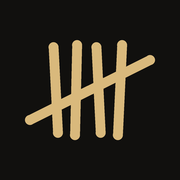
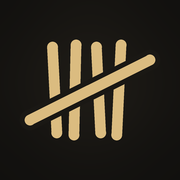
v1.17: días por hábito, días de descanso e ícono pulido
Claude-Session: https://claude.ai/code/session_011AUJg2xjcRvmcvuETV9aom

diff --git a/index.html b/index.html
@@ -174,6 +174,16 @@ input[type=checkbox]{width:22px;height:22px;flex:none;padding:0;accent-color:var
 @keyframes spIn{from{opacity:0;transform:translateY(6px)}to{opacity:1;transform:none}}
 @keyframes spOut{to{opacity:0;visibility:hidden}}
 @media (prefers-reduced-motion:reduce){#splash{display:none}}
+.card.off{opacity:.45}
+.d.off i::after{width:10px;height:2px;border-radius:1px;background:var(--line)}
+.grid .off{background:transparent;box-shadow:inset 0 0 0 1px var(--line)}
+.restrow{justify-content:flex-end}
+.daypick{display:grid;grid-template-columns:repeat(7,1fr);gap:6px}
+.daypick label{display:block;cursor:pointer}
+.daypick input{position:absolute;opacity:0;width:1px;height:1px}
+.daypick span{display:grid;place-items:center;height:40px;border-radius:12px;background:var(--raise);color:var(--muted);border:1.5px solid transparent;font-weight:600}
+.daypick input:checked + span{border-color:var(--accent);color:var(--accent)}
+.daypick input:focus-visible + span{outline:2px solid var(--accent);outline-offset:2px}
 [hidden]{display:none!important}
 @media (max-width:380px){h1{font-size:36px}.state{font-size:17px}.ico{width:46px;height:46px}.orb{width:52px;height:52px}}
 @media (prefers-reduced-motion:reduce){.bar u{transition:none}}
@@ -223,6 +233,10 @@ input[type=checkbox]{width:22px;height:22px;flex:none;padding:0;accent-color:var
         <option value="week">Veces por semana</option>
       </select>
     </label>
+    <fieldset id="hf-daysbox">
+      <legend>Días en que lo haces (los demás son de descanso)</legend>
+      <div class="daypick" id="hf-days"></div>
+    </fieldset>
     <div class="two" id="hf-countfields">
       <label for="hf-goal"><span id="hf-goallabel">Meta diaria</span>
         <input id="hf-goal" type="number" inputmode="decimal" min="0" step="any">
@@ -335,7 +349,7 @@ input[type=checkbox]{width:22px;height:22px;flex:none;padding:0;accent-color:var
 <script>
 (function(){
 "use strict";
-var VERSION = "1.16";
+var VERSION = "1.17";
 var $ = function(id){ return document.getElementById(id); };
 (function(){
   var sp=$("splash"), seen=false;
@@ -403,6 +417,9 @@ function ratio(h,k){ var v=val(h,k); if(h.type!=="count") return v>=1?1:0; retur
 function met(h,k){ return ratio(h,k)>=1; }
 function weekCount(h,k){ var m=monday(k), n=0; for(var i=0;i<7;i++) if(val(h,addDays(m,i))>=1) n++; return n; }
 function weekMet(h,mon){ return weekCount(h,mon) >= (h.goal||1); }
+function wdOf(k){ return (parse(k).getDay()+6)%7; }
+function isRest(k){ var r=(S.profile||{}).rest; return !!(r && r[k]); }
+function active(h,k){ if(isRest(k)) return false; if(isWeek(h) || !Array.isArray(h.days) || !h.days.length) return true; return h.days.indexOf(wdOf(k))>=0; }
 function metCount(k){ var n=0; S.habits.forEach(function(h){ if(met(h,k)) n++; }); return n; }
 function streak(h){
   var n=0, g=0;
@@ -412,9 +429,13 @@ function streak(h){
     while(weekMet(h,m) && g++<1000){ n++; m=addDays(m,-7); }
     return n;
   }
-  var k=today();
-  if(!met(h,k)) k=addDays(k,-1);
-  while(met(h,k) && g++<4000){ n++; k=addDays(k,-1); }
+  var k=today(), first=firstKey();
+  if(active(h,k) && !met(h,k)) k=addDays(k,-1);
+  while(g++<4000 && k>=first){
+    if(met(h,k)) n++;
+    else if(active(h,k)) break;
+    k=addDays(k,-1);
+  }
   return n;
 }
 function firstKey(){ var ks=Object.keys(S.days).sort(); return ks[0]||today(); }
@@ -426,7 +447,11 @@ function bestStreak(h){
     return best;
   }
   var k=firstKey();
-  while(k<=end && g++<4000){ if(met(h,k)){ run++; if(run>best) best=run; } else run=0; k=addDays(k,1); }
+  while(k<=end && g++<4000){
+    if(met(h,k)){ run++; if(run>best) best=run; }
+    else if(active(h,k) && k<end) run=0;
+    k=addDays(k,1);
+  }
   return best;
 }
 function consistency(h){
@@ -438,30 +463,34 @@ function consistency(h){
   var end=today(), start=addDays(end,-29);
   if(h.since && h.since>start) start=h.since;
   var k=start, total=0, good=0;
-  while(k<=end && total<31){ total++; if(met(h,k)) good++; k=addDays(k,1); }
+  var g=0;
+  while(k<=end && g++<31){ if(active(h,k)){ total++; if(met(h,k)) good++; } k=addDays(k,1); }
   return {v:(total?Math.round(good/total*100):0)+"%", l:"últimos 30 días"};
 }
 function dayScore(k){
   var n=0, m=0, sum=0;
   S.habits.forEach(function(h){
     if(isWeek(h) && !met(h,k)) return;
+    if(!active(h,k) && !met(h,k)) return;
     n++; var r=ratio(h,k); sum+=r; if(r>=1) m++;
   });
   return {n:n, m:m, pct:n?Math.round(sum/n*100):0};
 }
 function dayStreak(){
-  var k=today(), n=0;
-  if(!metCount(k)) k=addDays(k,-1);
-  while(metCount(k)>0 && n<4000){ n++; k=addDays(k,-1); }
+  var k=today(), n=0, g=0, first=firstKey();
+  if(!metCount(k) && !isRest(k)) k=addDays(k,-1);
+  while(g++<4000 && k>=first){
+    if(metCount(k)>0) n++;
+    else if(!isRest(k)) break;
+    k=addDays(k,-1);
+  }
   return n;
 }
 function bestDayStreak(){
   var k=firstKey(), end=today(), best=0, run=0, g=0;
-  while(k<=end && g++<4000){ if(metCount(k)>0){ run++; if(run>best) best=run; } else run=0; k=addDays(k,1); }
+  while(k<=end && g++<4000){ if(metCount(k)>0){ run++; if(run>best) best=run; } else if(!isRest(k) && k<end) run=0; k=addDays(k,1); }
   return best;
 }
-
-/* ---------- saving ---------- */
 function loadLocal(){
   try{
     var o = JSON.parse(localStorage.getItem(LKEY)||"null");
@@ -601,12 +630,15 @@ function notes(){
   if(S.saveErr) out+='<p class="note">'+esc(S.saveErr)+'</p>';
   return out;
 }
+var WDN=["L","M","X","J","V","S","D"];
+function daysLabel(h){ var d=h.days; if(!Array.isArray(d) || !d.length || d.length===7) return "todos los días"; if(d.length===5 && d.join()==="0,1,2,3,4") return "entre semana"; return d.slice().sort().map(function(i){ return WDN[i]; }).join(" "); }
 function isSteps(h){ return h.type==="count" && (/paso/.test(plain(h.unit)) || /paso/.test(plain(h.name))); }
 function viewHoy(){
   var k=S.sel, t=today(), d=parse(k), sc=dayScore(k);
   var wk = k===t ? "hoy · "+d.toLocaleDateString("es-MX",{weekday:"long"}) : d.toLocaleDateString("es-MX",{weekday:"long"});
   var ds=dayStreak();
-  var state = !sc.n ? "" : sc.m===sc.n ? "día completo" : sc.m+" de "+sc.n;
+  var rest=isRest(k);
+  var state = rest ? "descanso" : !sc.n ? "" : sc.m===sc.n ? "día completo" : sc.m+" de "+sc.n;
   var h = notes();
   h += '<header class="head"><div class="row"><div class="daynav"><button class="nav" data-a="prev" aria-label="Día anterior">‹</button>'
     + '<span class="wkday">'+esc(wk)+'</span>'
@@ -615,6 +647,7 @@ function viewHoy(){
     + '<div class="row end"><h1>'+esc(d.toLocaleDateString("es-MX",{day:"numeric",month:"long"}))+'</h1><em class="state">'+state+'</em></div>'
     + '<div class="rule"></div>'
     + '<div class="prog"><div class="bar"><u style="width:'+sc.pct+'%"></u></div><span class="num">'+sc.pct+'%</span></div>'
+    + (S.habits.length ? '<div class="tools restrow"><button class="chip'+(rest?' on':'')+'" data-a="rest" aria-pressed="'+rest+'">'+(rest?'día de descanso · quitar':'marcar día de descanso')+'</button></div>' : '')
     + ((S.profile||{}).quotes!==false ? '<p class="quote"><em>'+esc(quoteFor(k))+'</em></p>' : '')+'</header>';
   if(!S.cfgLoaded){ return h+'<p class="empty">Cargando tus hábitos…</p>'; }
   if(!S.habits.length){
@@ -622,13 +655,15 @@ function viewHoy(){
   }
   var mon=monday(k);
   h += '<ul class="list">';
-  S.habits.forEach(function(x){
-    var v=val(x,k), ok=met(x,k), st=streak(x), u = x.unit ? ' '+esc(x.unit) : '';
+  var order=S.habits.filter(function(x){ return active(x,k) || met(x,k); }).concat(S.habits.filter(function(x){ return !active(x,k) && !met(x,k); }));
+  order.forEach(function(x){
+    var v=val(x,k), ok=met(x,k), st=streak(x), u = x.unit ? ' '+esc(x.unit) : '', act=active(x,k);
     var sub, cardMet=ok;
     if(x.type==="count") sub = fmt(v)+' / '+fmt(x.goal)+u;
     else if(isWeek(x)){ var wc=weekCount(x,k); cardMet=wc>=x.goal; sub = wc+' de '+x.goal+' esta semana'+(cardMet?' · cumplida':''); }
     else sub = ok?'hecho':'pendiente';
-    h += '<li class="card'+(cardMet?' met':'')+'"><div class="hrow"><span class="ico">'+svg(iconOf(x))+'</span><div class="hname"><h3>'+esc(x.name)+'</h3><em class="sub">'+sub+'</em></div>';
+    if(!act && !ok) sub = rest ? 'día de descanso' : 'hoy descansa · '+daysLabel(x);
+    h += '<li class="card'+(cardMet?' met':'')+(!act && !ok?' off':'')+'"><div class="hrow"><span class="ico">'+svg(iconOf(x))+'</span><div class="hname"><h3>'+esc(x.name)+'</h3><em class="sub">'+sub+'</em></div>';
     if(x.type==="count"){
       h += '<button class="orb'+(ok?' on':'')+'" data-a="inc" data-id="'+x.id+'" aria-label="Sumar '+fmt(x.step)+u+' a '+esc(x.name)+'">'+(ok?'✓':'+')+'</button></div>';
     }else{
@@ -637,7 +672,7 @@ function viewHoy(){
     h += '<div class="wk">';
     for(var i=0;i<7;i++){
       var dk=addDays(mon,i), r=ratio(x,dk);
-      h += '<button class="d'+(r>=1?' met':r>0?' part':'')+(dk===k?' sel':'')+'" data-a="pick" data-k="'+dk+'"'+(dk>t?' disabled':'')
+      h += '<button class="d'+(r>=1?' met':r>0?' part':(active(x,dk)?'':' off'))+(dk===k?' sel':'')+'" data-a="pick" data-k="'+dk+'"'+(dk>t?' disabled':'')
         + ' aria-label="'+esc(longDate(dk,{weekday:"long",day:"numeric"}))+'"><i></i><small>'+WD[i]+'</small></button>';
     }
     h += '</div>';
@@ -655,7 +690,7 @@ function viewHist(){
   var h = notes()+'<div><p class="eyebrow">últimas 12 semanas</p><h1>historial</h1></div>';
   if(!S.habits.length) return h+'<p class="empty">Cuando registres hábitos, aquí verás tus rachas y tu constancia.</p>';
   var t=today(), start=addDays(monday(t),-77);
-  h += '<p class="legend"><span><i style="background:var(--accent)"></i>Meta cumplida</span><span><i style="background:var(--dim)"></i>Avance parcial</span><span><i style="background:var(--line)"></i>Sin registro</span></p><ul class="list">';
+  h += '<p class="legend"><span><i style="background:var(--accent)"></i>Meta cumplida</span><span><i style="background:var(--dim)"></i>Avance parcial</span><span><i style="background:var(--line)"></i>Sin registro</span><span><i style="box-shadow:inset 0 0 0 1px var(--line)"></i>Descanso</span></p><ul class="list">';
   S.habits.forEach(function(x){
     var c=consistency(x), wk=isWeek(x);
     h += '<li class="card"><div class="hrow"><span class="ico">'+svg(iconOf(x))+'</span><div class="hname"><h3>'+esc(x.name)+'</h3></div></div><div class="stats">'
@@ -666,7 +701,7 @@ function viewHist(){
       var dk=addDays(start,i);
       if(dk>t){ h+='<span class="fut"></span>'; continue; }
       var r=ratio(x,dk);
-      h += '<span class="'+(r>=1?'l2':r>0?'l1':'')+'" title="'+dk+': '+fmt(val(x,dk))+'"></span>';
+      h += '<span class="'+(r>=1?'l2':r>0?'l1':(active(x,dk)?'':'off'))+'" title="'+dk+': '+fmt(val(x,dk))+'"></span>';
     }
     h += '</div></li>';
   });
@@ -677,7 +712,8 @@ function viewHabits(){
   if(!S.cfgLoaded) return h+'<p class="empty">Cargando tus hábitos…</p>';
   h += '<ul class="list">';
   S.habits.forEach(function(x,i){
-    var sub = x.type==="check" ? "Sí o no, cada día" : isWeek(x) ? x.goal+(x.goal===1?" vez":" veces")+" por semana" : "Meta: "+fmt(x.goal)+(x.unit?" "+esc(x.unit):"")+" al día";
+    var sub = x.type==="check" ? "Sí o no" : isWeek(x) ? x.goal+(x.goal===1?" vez":" veces")+" por semana" : "Meta: "+fmt(x.goal)+(x.unit?" "+esc(x.unit):"");
+    if(!isWeek(x)) sub += " · "+daysLabel(x);
     h += '<li class="card"><div class="mrow"><span class="ico">'+svg(iconOf(x))+'</span><div class="hname"><h3>'+esc(x.name)+'</h3><em class="sub">'+sub+'</em></div></div>'
       + '<div class="tools"><button class="ghost" data-a="edit-habit" data-id="'+x.id+'">editar</button>'
       + '<button class="mini" data-a="up" data-id="'+x.id+'" aria-label="Subir '+esc(x.name)+'"'+(i===0?' disabled':'')+'>↑</button>'
@@ -804,6 +840,11 @@ function find(id){ for(var i=0;i<S.habits.length;i++) if(S.habits[i].id===id) re
   ICON_NAMES.forEach(function(n){ h+='<label><input type="radio" name="hf-icon" value="'+n+'" aria-label="'+n+'"><span>'+svg(n)+'</span></label>'; });
   $("hf-icons").innerHTML=h;
 })();
+(function(){
+  var h="", names=["lunes","martes","miércoles","jueves","viernes","sábado","domingo"];
+  for(var i=0;i<7;i++) h+='<label><input type="checkbox" name="hf-day" value="'+i+'" aria-label="'+names[i]+'"><span>'+WDN[i]+'</span></label>';
+  $("hf-days").innerHTML=h;
+})();
 function pickIcon(n){ var r=document.querySelector('input[name="hf-icon"][value="'+n+'"]'); if(r) r.checked=true; }
 function syncType(){
   var t=$("hf-type").value, c=t==="count", w=t==="week";
@@ -812,6 +853,7 @@ function syncType(){
   $("hf-steplabel").hidden = !c;
   $("hf-goallabel").textContent = w ? "Veces por semana" : "Meta diaria";
   $("hf-goal").max = w ? 7 : "";
+  $("hf-daysbox").hidden = w;
 }
 $("hf-type").addEventListener("change", syncType);
 $("hf-name").addEventListener("input", function(){ if(!editing && !document.querySelector('input[name="hf-icon"]:checked.user')) pickIcon(guessIcon(this.value)); });
@@ -826,6 +868,8 @@ function openHabit(h){
   $("hf-step").value = h && h.type==="count" ? h.step : "";
   document.querySelectorAll('input[name="hf-icon"]').forEach(function(r){ r.classList.remove("user"); r.checked=false; });
   pickIcon(h ? iconOf(h) : "check");
+  var dd = h && Array.isArray(h.days) && h.days.length ? h.days : [0,1,2,3,4,5,6];
+  document.querySelectorAll('input[name="hf-day"]').forEach(function(c){ c.checked = dd.indexOf(Number(c.value))>=0; });
   $("hf-del").hidden = !h; $("hf-del").textContent = "Eliminar";
   $("hf-err").hidden = true;
   syncType();
@@ -840,16 +884,20 @@ $("form-habit").addEventListener("submit", function(ev){
   if(!name) err="Escribe un nombre para el hábito.";
   else if(type==="count" && !(goal>0)) err="Escribe una meta diaria mayor que cero.";
   else if(type==="week" && !(goal>=1 && goal<=7)) err="Escribe cuántas veces por semana, de 1 a 7.";
+  var days=[]; document.querySelectorAll('input[name="hf-day"]:checked').forEach(function(c){ days.push(Number(c.value)); });
+  if(!err && type!=="week" && !days.length) err="Elige al menos un día.";
   if(err){ $("hf-err").textContent=err; $("hf-err").hidden=false; return; }
   if(type==="count" && !(step>0)) step = goal>=100 ? r2(goal/10) : 1;
+  var dsave = type==="week" || days.length===7 ? null : days.sort();
   var data = type==="check" ? {name:name,type:"check",icon:ic}
     : type==="week" ? {name:name,type:"week",goal:Math.round(goal),icon:ic}
     : {name:name,type:"count",goal:r2(goal),unit:unit,step:r2(step),icon:ic};
   if(editing){
     var h=find(editing);
-    if(h){ var i=S.habits.indexOf(h); S.habits[i]=Object.assign({id:h.id,since:h.since},data); }
+    if(h){ var i=S.habits.indexOf(h); S.habits[i]=Object.assign({id:h.id,since:h.since},data); if(dsave) S.habits[i].days=dsave; }
   }else{
-    S.habits.push(Object.assign({id:"h"+Date.now().toString(36), since:today()}, data));
+    var nh=Object.assign({id:"h"+Date.now().toString(36), since:today()}, data); if(dsave) nh.days=dsave;
+    S.habits.push(nh);
   }
   saveCfg(); $("dlg-habit").close(); render();
 });
@@ -1255,6 +1303,7 @@ document.addEventListener("click", function(ev){
   else if(a==="sync-now"){ syncNow(true); }
   else if(a==="del-photo"){ pendingPhoto=""; el.hidden=true; }
   else if(a==="quotes"){ setProfile({quotes:(S.profile||{}).quotes===false}); render(); }
+  else if(a==="rest"){ var rr=Object.assign({}, (S.profile||{}).rest||{}); if(rr[k]) delete rr[k]; else rr[k]=true; setProfile({rest:rr}); render(); }
   else if(a==="go"){ location.hash = el.dataset.v; window.scrollTo(0,0); }
   else if(a==="set"){ var o={}, sv=el.dataset.v; o[el.dataset.k] = sv==="true" ? true : sv==="false" ? false : sv; setProfile(o); render(); }
   else if(a==="font"){ setProfile({font:el.dataset.v}); render(); }
